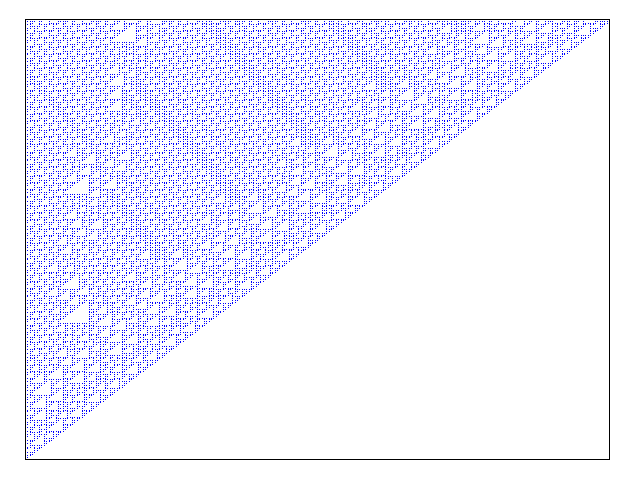
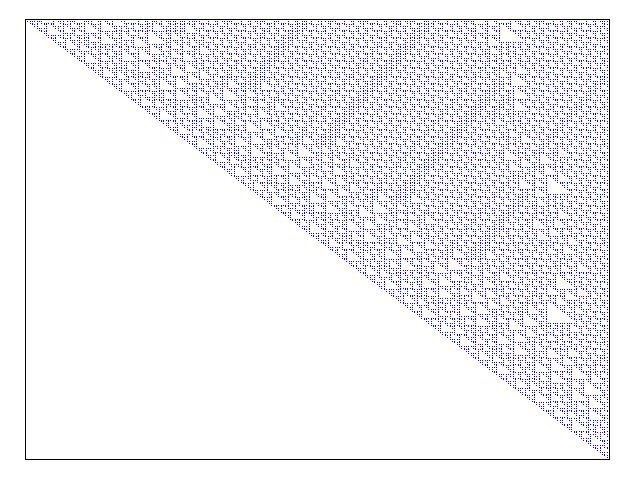
png graph 1

Changed region(s): [[0.0312, 0.0312, 0.9375, 0.9062]]

diff --git a/src/automata.c b/src/automata.c
@@ -31,14 +31,9 @@ int fun_automata(int tmax,int N,int scelta,int caso)
         for(i=0;i<N;i++) if(c[i] == 1) fprintf(results,"%d %d\n",i-(int)(0.5*N),t);
         for(i=1;i<N-1;i++)
         {
-            if(scelta == 30) ctemp[i] = c[i-1]^(c[i]|c[i+1]);
-            else if(scelta == 32) ctemp[i] = c[i-1]&(~c[i])&c[i+1];
-            else if(scelta == 54) ctemp[i] = (c[i-1]|c[i+1])^c[i];
-            else if(scelta == 90) ctemp[i] = c[i-1]^c[i+1];
-            else if(scelta == 110) ctemp[i] = (c[i-1]|c[i])^(c[i-1]&c[i]&c[i+1]);
-            else if(scelta == 150) ctemp[i] = (c[i-1]^c[i+1])^c[i];
+            if(scelta == 110) ctemp[i] = ((~c[i-1])&c[i]&c[i+1])^c[i]^c[i+1];
+            else if(scelta == 150) ctemp[i] = c[i-1]^c[i]^c[i+1];
             else if(scelta == 184) ctemp[i] = c[i-1]^(c[i-1]&c[i])^(c[i]&c[i+1]);
-            else if(scelta == 250) ctemp[i] = c[i-1]|c[i+1];
             else continue;
         }
         for(i=0;i<N;i++) c[i] = ctemp[i];
